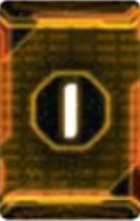
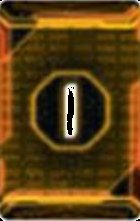
Add files via upload

Changed region(s): [[0.4571, 0.3801, 0.5429, 0.6244], [0.9714, 0.9774, 1.0, 1.0], [0.0, 0.9774, 0.0286, 1.0]]

diff --git a/index.html b/index.html
@@ -1,5 +1,5 @@
 <!DOCTYPE html>
-<!-- TI4 Tracker 2.066 -->
+<!-- TI4 Tracker 2.067 -->
 <html lang="en">
 <head>
 <meta charset="UTF-8">
@@ -155,11 +155,13 @@ label { font-size: 12px; color: var(--text-dim); display: block; margin-bottom: 
     
     <div id="login-form" style="display:none">
       <div class="small dim" id="url-display"></div>
-      <button id="btn-resume-admin" class="btn btn-primary btn-full mt-16" style="display:none;background:rgba(93,184,255,0.15);border-color:#5db8ff;color:#5db8ff">↺ Resume Previous Game</button>
-      <button id="btn-admin" class="btn btn-primary btn-full mt-8">Enter as Admin</button>
-      <button id="btn-guest" class="btn btn-full mt-8">Enter as Guest</button>
-      <button id="btn-howto" class="btn btn-full mt-8" style="border-color:var(--border2);color:var(--text-dim)">📖 How To</button>
-      <button id="btn-settings" class="btn btn-sm dim mt-16" style="border:none;background:none">⚙ Change settings</button>
+      <button id="btn-resume-admin" class="btn btn-primary btn-full mt-16" style="display:none;background:rgba(93,184,255,0.15);border-color:#5db8ff;color:#5db8ff;font-size:18px;font-weight:700;padding:18px;letter-spacing:.05em">↺ Resume Previous Game</button>
+      <button id="btn-admin" class="btn btn-primary btn-full mt-16" style="font-size:20px;font-weight:700;padding:22px;letter-spacing:.08em">Enter as Admin</button>
+      <button id="btn-guest" class="btn btn-full mt-8" style="font-size:20px;font-weight:700;padding:22px;letter-spacing:.08em">Enter as Guest</button>
+      <div style="display:flex;justify-content:space-between;align-items:center;margin-top:20px">
+        <button id="btn-settings" class="btn btn-sm dim" style="border:none;background:none;color:var(--text-dim);font-size:12px">⚙ Change settings</button>
+        <button id="btn-howto" class="btn btn-sm dim" style="border:none;background:none;color:var(--text-dim);font-size:12px">📖 How To</button>
+      </div>
     </div>
   </div>
 </div>
@@ -231,7 +233,7 @@ label { font-size: 12px; color: var(--text-dim); display: block; margin-bottom: 
       <button id="btn-add-player" class="btn">+ Add Player</button>
       <button id="btn-start" class="btn btn-primary">⚔ Start Game</button>
     </div>
-    <button id="btn-auto-color" class="btn btn-sm mt-8" style="border-color:var(--red);color:var(--red)">TEMP AUTO COLOR</button>
+    <button id="btn-auto-color" class="btn btn-sm mt-8">🎲 Randomize Colors</button>
   </div>
 </div>
 
@@ -277,7 +279,7 @@ label { font-size: 12px; color: var(--text-dim); display: block; margin-bottom: 
 // TI4 Tracker - Single file, no module systems, no IIFEs
 // =============================================================================
 
-var VERSION = '2.066';
+var VERSION = '2.067';
 document.getElementById('version-display').textContent = 'v' + VERSION;
 
 // Debug logger - silent unless panel toggled open
@@ -1259,6 +1261,8 @@ var state = {
   roundLog: [],
   // Strategy cards per round
   strategies: {},
+  // How many strategy cards each player picks (1 default, 2 for ≤4 player games if chosen)
+  strategiesPerPlayer: 1,
   // Feature toggles
   features: { strategy: true, tech: true }
 };
@@ -1822,57 +1826,64 @@ function renderStrategy() {
   var round = state.round;
   if (!state.strategies) state.strategies = {};
   if (!state.strategies[round]) state.strategies[round] = {};
-  var roundPicks = state.strategies[round]; // {playerIdx: cardName}
-  
-  // Set of already-picked cards this round
-  var pickedCards = {};
-  Object.keys(roundPicks).forEach(function(playerIdx) { pickedCards[roundPicks[playerIdx]] = parseInt(playerIdx, 10); });
+  var roundPicks = state.strategies[round];
+  var perPlayer = state.strategiesPerPlayer || 1;
   
   var h = '<div class="panel">';
   h += '<div style="display:flex;align-items:center;justify-content:space-between;margin-bottom:10px">';
-  h += '<div style="font-size:11px;letter-spacing:.15em;color:var(--gold);text-transform:uppercase">Round ' + round + ' · Strategy</div>';
+  h += '<div style="font-size:11px;letter-spacing:.15em;color:var(--gold);text-transform:uppercase">Round ' + round + ' · Strategy' + (perPlayer === 2 ? ' (2 each)' : '') + '</div>';
   h += '</div>';
   
-  // Player rows with their current pick (or pick button)
   h += '<div style="display:flex;flex-direction:column;gap:8px">';
   state.players.forEach(function(p, i) {
-    var picked = roundPicks[i];
-    var card = picked ? STRATEGY_CARDS.find(function(c) { return c.name === picked; }) : null;
+    var picksRaw = roundPicks[i];
+    // Normalize to array
+    var picks = Array.isArray(picksRaw) ? picksRaw : (picksRaw ? [picksRaw] : []);
     
-    h += '<div style="display:flex;align-items:center;gap:8px;background:rgba(36, 50, 84, 0.4);border:1px solid var(--border);border-left:4px solid ' + p.color + ';border-radius:6px;padding:10px 12px">';
-    // Player name in player color
-    h += '<div style="flex:1;min-width:0;font-weight:600;color:' + p.color + ';text-shadow:-0.5px -0.5px 0 rgba(255,255,255,.3),0.5px -0.5px 0 rgba(255,255,255,.3),-0.5px 0.5px 0 rgba(255,255,255,.3),0.5px 0.5px 0 rgba(255,255,255,.3);overflow:hidden;text-overflow:ellipsis;white-space:nowrap">' + p.name + '</div>';
+    h += '<div style="display:flex;align-items:center;gap:8px;background:rgba(36, 50, 84, 0.4);border:1px solid var(--border);border-left:4px solid ' + p.color + ';border-radius:6px;padding:10px 12px;flex-wrap:wrap">';
+    h += '<div style="flex:1;min-width:120px;font-weight:600;color:' + p.color + ';text-shadow:-0.5px -0.5px 0 rgba(255,255,255,.3),0.5px -0.5px 0 rgba(255,255,255,.3),-0.5px 0.5px 0 rgba(255,255,255,.3),0.5px 0.5px 0 rgba(255,255,255,.3);overflow:hidden;text-overflow:ellipsis;white-space:nowrap">' + p.name + '</div>';
     
-    if (card) {
-      // Show their chosen card
-      h += '<div style="display:flex;align-items:center;gap:8px">';
+    // Show each pick
+    picks.forEach(function(cardName, slot) {
+      var card = STRATEGY_CARDS.find(function(c) { return c.name === cardName; });
+      if (!card) return;
+      h += '<div style="display:flex;align-items:center;gap:6px">';
       h += '<div style="background:' + card.color + ';color:#0a1525;font-weight:700;font-size:13px;width:24px;height:24px;border-radius:50%;display:flex;align-items:center;justify-content:center;flex-shrink:0">' + card.num + '</div>';
       h += '<div style="font-size:13px;font-weight:600;color:' + card.color + '">' + card.name + '</div>';
       if (isAdmin) {
-        h += '<button onclick="clearStrategy(' + i + ')" style="background:none;border:none;color:var(--red);font-size:16px;cursor:pointer;padding:0 4px">✕</button>';
+        h += '<button onclick="clearStrategy(' + i + ',' + slot + ')" style="background:none;border:none;color:var(--red);font-size:16px;cursor:pointer;padding:0 4px">✕</button>';
       }
       h += '</div>';
-    } else if (isAdmin) {
-      h += '<button class="btn btn-sm btn-primary" onclick="openStrategyPicker(' + i + ')">Pick</button>';
-    } else {
-      h += '<span class="small dim">No pick yet</span>';
+    });
+    
+    // Show Pick button if they still need more
+    if (picks.length < perPlayer && isAdmin) {
+      h += '<button class="btn btn-sm btn-primary" onclick="openStrategyPicker(' + i + ')">+ Pick</button>';
+    } else if (picks.length < perPlayer && !isAdmin) {
+      h += '<span class="small dim">' + (perPlayer - picks.length) + ' to pick</span>';
     }
+    
     h += '</div>';
   });
   h += '</div>';
   
-  // Indicator if all players have picked
-  var allPicked = state.players.every(function(_, i) { return !!roundPicks[i]; });
-  if (allPicked) {
-    h += '<div class="gold center mt-16 small" style="letter-spacing:.1em">✓ All players picked</div>';
+  // Status
+  var totalNeeded = state.players.length * perPlayer;
+  var totalPicked = 0;
+  state.players.forEach(function(_, i) {
+    var picks = roundPicks[i];
+    if (Array.isArray(picks)) totalPicked += picks.length;
+    else if (picks) totalPicked += 1;
+  });
+  if (totalPicked >= totalNeeded) {
+    h += '<div class="gold center mt-16 small" style="letter-spacing:.1em">✓ All picks complete</div>';
   } else {
-    var remaining = state.players.length - Object.keys(roundPicks).length;
-    h += '<div class="dim center mt-16 small">' + remaining + ' player' + (remaining !== 1 ? 's' : '') + ' still to pick</div>';
+    h += '<div class="dim center mt-16 small">' + (totalNeeded - totalPicked) + ' more pick' + ((totalNeeded - totalPicked) !== 1 ? 's' : '') + ' needed</div>';
   }
   
   h += '</div>';
   
-  // Card reference at the bottom (collapsed)
+  // Card reference
   h += '<div class="panel mt-16">';
   h += '<details><summary style="cursor:pointer;color:var(--gold);font-size:11px;letter-spacing:.15em;text-transform:uppercase">Strategy Cards Reference</summary>';
   h += '<div style="margin-top:10px;display:flex;flex-direction:column;gap:4px">';
@@ -1896,10 +1907,14 @@ function openStrategyPicker(playerIdx) {
   if (!state.strategies[round]) state.strategies[round] = {};
   var roundPicks = state.strategies[round];
   
-  // Cards already picked by other players this round
+  // Collect taken cards across all players this round
   var taken = {};
   Object.keys(roundPicks).forEach(function(pi) {
-    if (parseInt(pi, 10) !== playerIdx) taken[roundPicks[pi]] = parseInt(pi, 10);
+    var picksRaw = roundPicks[pi];
+    var picks = Array.isArray(picksRaw) ? picksRaw : (picksRaw ? [picksRaw] : []);
+    picks.forEach(function(cardName) {
+      taken[cardName] = parseInt(pi, 10);
+    });
   });
   
   var p = state.players[playerIdx];
@@ -1937,28 +1952,48 @@ function chooseStrategy(playerIdx, cardName) {
   if (!isAdmin || state.ended) return;
   if (!state.strategies) state.strategies = {};
   if (!state.strategies[state.round]) state.strategies[state.round] = {};
-  // Verify not taken
   var roundPicks = state.strategies[state.round];
+  
+  // Verify not taken anywhere
   var alreadyTakenBy = -1;
   Object.keys(roundPicks).forEach(function(pi) {
-    if (roundPicks[pi] === cardName && parseInt(pi, 10) !== playerIdx) {
-      alreadyTakenBy = parseInt(pi, 10);
-    }
+    var picksRaw = roundPicks[pi];
+    var picks = Array.isArray(picksRaw) ? picksRaw : (picksRaw ? [picksRaw] : []);
+    picks.forEach(function(cn) {
+      if (cn === cardName) alreadyTakenBy = parseInt(pi, 10);
+    });
   });
   if (alreadyTakenBy >= 0) {
     alert(cardName + ' is already taken by ' + state.players[alreadyTakenBy].name + '.');
     return;
   }
-  roundPicks[playerIdx] = cardName;
+  
+  // Add to player's picks
+  var existing = roundPicks[playerIdx];
+  var arr = Array.isArray(existing) ? existing.slice() : (existing ? [existing] : []);
+  arr.push(cardName);
+  roundPicks[playerIdx] = arr;
+  
   closeModal();
   pushState();
   renderStrategy();
 }
 
-function clearStrategy(playerIdx) {
+function clearStrategy(playerIdx, slot) {
   if (!isAdmin || state.ended) return;
   if (!state.strategies || !state.strategies[state.round]) return;
-  delete state.strategies[state.round][playerIdx];
+  var existing = state.strategies[state.round][playerIdx];
+  if (Array.isArray(existing)) {
+    if (typeof slot === 'number') {
+      existing.splice(slot, 1);
+      if (!existing.length) delete state.strategies[state.round][playerIdx];
+      else state.strategies[state.round][playerIdx] = existing;
+    } else {
+      delete state.strategies[state.round][playerIdx];
+    }
+  } else {
+    delete state.strategies[state.round][playerIdx];
+  }
   pushState();
   renderStrategy();
 }
@@ -2384,14 +2419,17 @@ function renderHistory() {
           if (roundStrategies && Object.keys(roundStrategies).length) {
             h += '<div style="display:flex;flex-wrap:wrap;gap:6px;justify-content:center;margin-bottom:8px;padding:6px;background:rgba(36, 50, 84, 0.2);border-radius:6px">';
             (e.players || []).forEach(function(p, i) {
-              var cardName = roundStrategies[i];
-              if (!cardName) return;
-              var card = STRATEGY_CARDS.find(function(c) { return c.name === cardName; });
-              if (!card) return;
-              h += '<div style="display:flex;align-items:center;gap:5px;background:rgba(36, 50, 84, 0.4);border:1px solid ' + p.color + ';border-radius:14px;padding:3px 8px 3px 3px">';
-              h += '<div style="background:' + card.color + ';color:#0a1525;font-weight:700;font-size:10px;width:18px;height:18px;border-radius:50%;display:flex;align-items:center;justify-content:center;flex-shrink:0">' + card.num + '</div>';
-              h += '<div style="font-size:10px;color:' + p.color + ';font-weight:600;white-space:nowrap;text-shadow:-0.5px -0.5px 0 rgba(255,255,255,.3),0.5px -0.5px 0 rgba(255,255,255,.3),-0.5px 0.5px 0 rgba(255,255,255,.3),0.5px 0.5px 0 rgba(255,255,255,.3)">' + p.name + '</div>';
-              h += '</div>';
+              var picksRaw = roundStrategies[i];
+              if (!picksRaw) return;
+              var picks = Array.isArray(picksRaw) ? picksRaw : [picksRaw];
+              picks.forEach(function(cardName) {
+                var card = STRATEGY_CARDS.find(function(c) { return c.name === cardName; });
+                if (!card) return;
+                h += '<div style="display:flex;align-items:center;gap:5px;background:rgba(36, 50, 84, 0.4);border:1px solid ' + p.color + ';border-radius:14px;padding:3px 8px 3px 3px">';
+                h += '<div style="background:' + card.color + ';color:#0a1525;font-weight:700;font-size:10px;width:18px;height:18px;border-radius:50%;display:flex;align-items:center;justify-content:center;flex-shrink:0">' + card.num + '</div>';
+                h += '<div style="font-size:10px;color:' + p.color + ';font-weight:600;white-space:nowrap;text-shadow:-0.5px -0.5px 0 rgba(255,255,255,.3),0.5px -0.5px 0 rgba(255,255,255,.3),-0.5px 0.5px 0 rgba(255,255,255,.3),0.5px 0.5px 0 rgba(255,255,255,.3)">' + p.name + '</div>';
+                h += '</div>';
+              });
             });
             h += '</div>';
           }
@@ -3095,9 +3133,50 @@ function shuffle(arr) {
 
 function startGame() {
   if (!isAdmin || state.players.length < 2) return alert('At least 2 players required');
-  // Find any player without a color
   var noColor = state.players.find(function(p) { return !p.color; });
   if (noColor) return alert(noColor.name + " hasn't chosen a faction color");
+  
+  var feat = state.features || { strategy: true, tech: true };
+  // If strategy enabled and 4 or fewer players, ask if each picks 2 cards
+  if (feat.strategy !== false && state.players.length <= 4) {
+    askStrategyCount(function() {
+      doStartGame();
+    });
+    return;
+  }
+  state.strategiesPerPlayer = 1;
+  doStartGame();
+}
+
+function askStrategyCount(onChosen) {
+  var h = '<div style="text-align:center;margin-bottom:12px"><div class="gold" style="font-size:18px">Strategy Cards</div><div class="small dim" style="margin-top:6px">With ' + state.players.length + ' players, each can pick 1 or 2 strategy cards per round.</div></div>';
+  h += '<div style="display:flex;flex-direction:column;gap:8px">';
+  h += '<button class="btn btn-primary" style="padding:14px" onclick="confirmStrategyCount(1)">1 card per player</button>';
+  h += '<button class="btn btn-primary" style="padding:14px" onclick="confirmStrategyCount(2)">2 cards per player</button>';
+  h += '</div>';
+  h += '<button class="btn btn-full mt-16" onclick="closeModal()">Cancel</button>';
+  
+  var modal = document.getElementById('modal');
+  modal.classList.add('modal-center');
+  modal.innerHTML = h;
+  modal.classList.add('open');
+  document.getElementById('modal-overlay').classList.add('open');
+  // Stash callback
+  window._strategyCountCallback = onChosen;
+}
+
+function confirmStrategyCount(n) {
+  state.strategiesPerPlayer = n;
+  closeModal();
+  if (window._strategyCountCallback) {
+    var cb = window._strategyCountCallback;
+    window._strategyCountCallback = null;
+    cb();
+  }
+}
+window.confirmStrategyCount = confirmStrategyCount;
+
+function doStartGame() {
   state.started = true;
   state.startTime = new Date().toISOString();
   state.roundTimestamps = [state.startTime];
@@ -3106,7 +3185,6 @@ function startGame() {
   state.pausedDurationMs = 0;
   state.roundLog = [];
   state.strategies = {};
-  // Clear any leftover photo cache from previous game
   clearPhotoCache();
   // Assign starting techs (only if tech tracking is enabled)
   var feat = state.features || { strategy: true, tech: true };
@@ -3229,7 +3307,12 @@ function nextRound() {
 function allPlayersPickedStrategy() {
   if (!state.strategies) return false;
   var roundPicks = state.strategies[state.round] || {};
-  return state.players.every(function(_, i) { return !!roundPicks[i]; });
+  var per = state.strategiesPerPlayer || 1;
+  return state.players.every(function(_, i) {
+    var p = roundPicks[i];
+    var arr = Array.isArray(p) ? p : (p ? [p] : []);
+    return arr.length >= per;
+  });
 }
 
 function promptRoundPhoto() {
@@ -3576,7 +3659,7 @@ function newGame() {
 }
 
 function startFreshGame() {
-  state = { players: [], round: 1, vpGoal: 10, started: false, ended: false, winner: null, secretsScored: [], otherScored: [], roundTimestamps: [], paused: false, pauseStarted: null, pausedDurationMs: 0, roundLog: [], strategies: {}, features: { strategy: true, tech: true } };
+  state = { players: [], round: 1, vpGoal: 10, started: false, ended: false, winner: null, secretsScored: [], otherScored: [], roundTimestamps: [], paused: false, pauseStarted: null, pausedDurationMs: 0, roundLog: [], strategies: {}, strategiesPerPlayer: 1, features: { strategy: true, tech: true } };
   // Generate a new room code so it doesn't conflict with the just-ended game
   roomCode = generateRoomCode();
   dbSet('settings', { k: 'lastRoom', v: roomCode });
@@ -3811,10 +3894,11 @@ function showHowTo() {
   h += '<li>Tap <b>Enter as Admin</b></li>';
   h += '<li>Share the room code that appears at the top with your players</li>';
   h += '<li>In the <b>Setup</b> tab: tap <b>+ Add Player</b> for each player (2–8 supported)</li>';
-  h += '<li>Edit names, pick faction, tap the color circle to pick a color</li>';
+  h += '<li>Edit names, pick faction, tap the color circle to pick a color (or use <b>🎲 Randomize Colors</b>)</li>';
   h += '<li>All players must have a color before you can start</li>';
   h += '<li>View any faction sheet by tapping <b>📜 Sheet</b> next to the faction selector</li>';
-  h += '<li>When ready, tap <b>⚔ Start Game</b></li>';
+  h += '<li><b>Features</b>: turn off ⚔ Strategy cards or 🔬 Tech tracking if you don\'t want them</li>';
+  h += '<li>When ready, tap <b>⚔ Start Game</b> — with ≤4 players and strategy on, you\'ll be asked whether each player picks 1 or 2 cards per round</li>';
   h += '</ol>';
   
   // Joining as guest
@@ -3837,6 +3921,16 @@ function showHowTo() {
   h += '</ul></li>';
   h += '<li><b>Secret Objectives</b>: tap <b>+ Score Secret</b> → choose objective (grouped by Status/Action/Agenda) → choose player. Each player may only score 3.</li>';
   h += '<li><b>Other Objectives</b>: Custodians, Support for the Throne, Mutiny, Shard of the Throne, etc. Also has free-text "Other" for anything custom.</li>';
+  h += '</ul>';
+  
+  // Strategy
+  h += '<div style="font-size:11px;letter-spacing:.15em;color:var(--gold);text-transform:uppercase;margin-top:12px;margin-bottom:6px;border-bottom:1px solid var(--border);padding-bottom:3px">Strategy Cards</div>';
+  h += '<ul style="padding-left:18px;margin:0">';
+  h += '<li>Every round, each player picks a strategy card on the <b>Strategy</b> tab</li>';
+  h += '<li>Same card can\'t be picked by two players in the same round</li>';
+  h += '<li>All picks must be in before you can tap Next Round or End Game</li>';
+  h += '<li>With ≤4 players, you can choose at start whether each player picks 1 or 2 cards per round</li>';
+  h += '<li>Can be disabled in Setup if you\'re not using strategy cards</li>';
   h += '</ul>';
   
   // Round flow

diff --git a/README.md b/README.md
@@ -80,9 +80,12 @@ You're done with setup! Your credentials are saved locally on this device — yo
 3. In the **Setup** tab:
    - Tap **+ Add Player** for each player (2–8 supported)
    - Edit names, pick a faction, tap the circle to pick a color
+   - Use **🎲 Randomize Colors** to auto-assign colors to anyone who hasn't picked one
    - All players must have a color before you can start
    - View any faction sheet by tapping **📜 Sheet** next to the faction selector
+   - **Feature toggles**: turn off **⚔ Strategy cards** or **🔬 Tech tracking** if you don't want to use them. The corresponding tab is hidden and rules around them are skipped.
 4. When ready, tap **⚔ Start Game**
+   - With 4 or fewer players and strategy cards enabled, you'll be asked whether each player picks **1 or 2** strategy cards per round
 
 ### Joining a game (Guest)
 
@@ -101,6 +104,10 @@ Guests can view all screens (Setup, Score, Tech, History) but can't make changes
   - Tap **✕** next to a scored player to undo a miss-click
 - **Secret Objectives** panel: tap **+ Score Secret** → choose objective (grouped by Status/Action/Agenda) → choose player. Each player may only score 3 secret objectives.
 - **Other Objectives** panel: covers things like Custodians (Mecatol Rex), Support for the Throne, Mutiny, Shard of the Throne, etc. Also has a free-text "Other" option for anything else.
+
+### Strategy cards
+
+If strategy cards are enabled, every player must pick their card(s) on the **Strategy** tab before you can advance to the next round or end the game. Cards are unique per round — the same card can't be picked by two players in the same round. The 8 standard TI4 strategy cards (Leadership, Diplomacy, Politics, Construction, Trade, Warfare, Technology, Imperial) are all available. With ≤4 players and "2 cards each" chosen at game start, each player picks two cards per round.
 
 ### Round flow
 